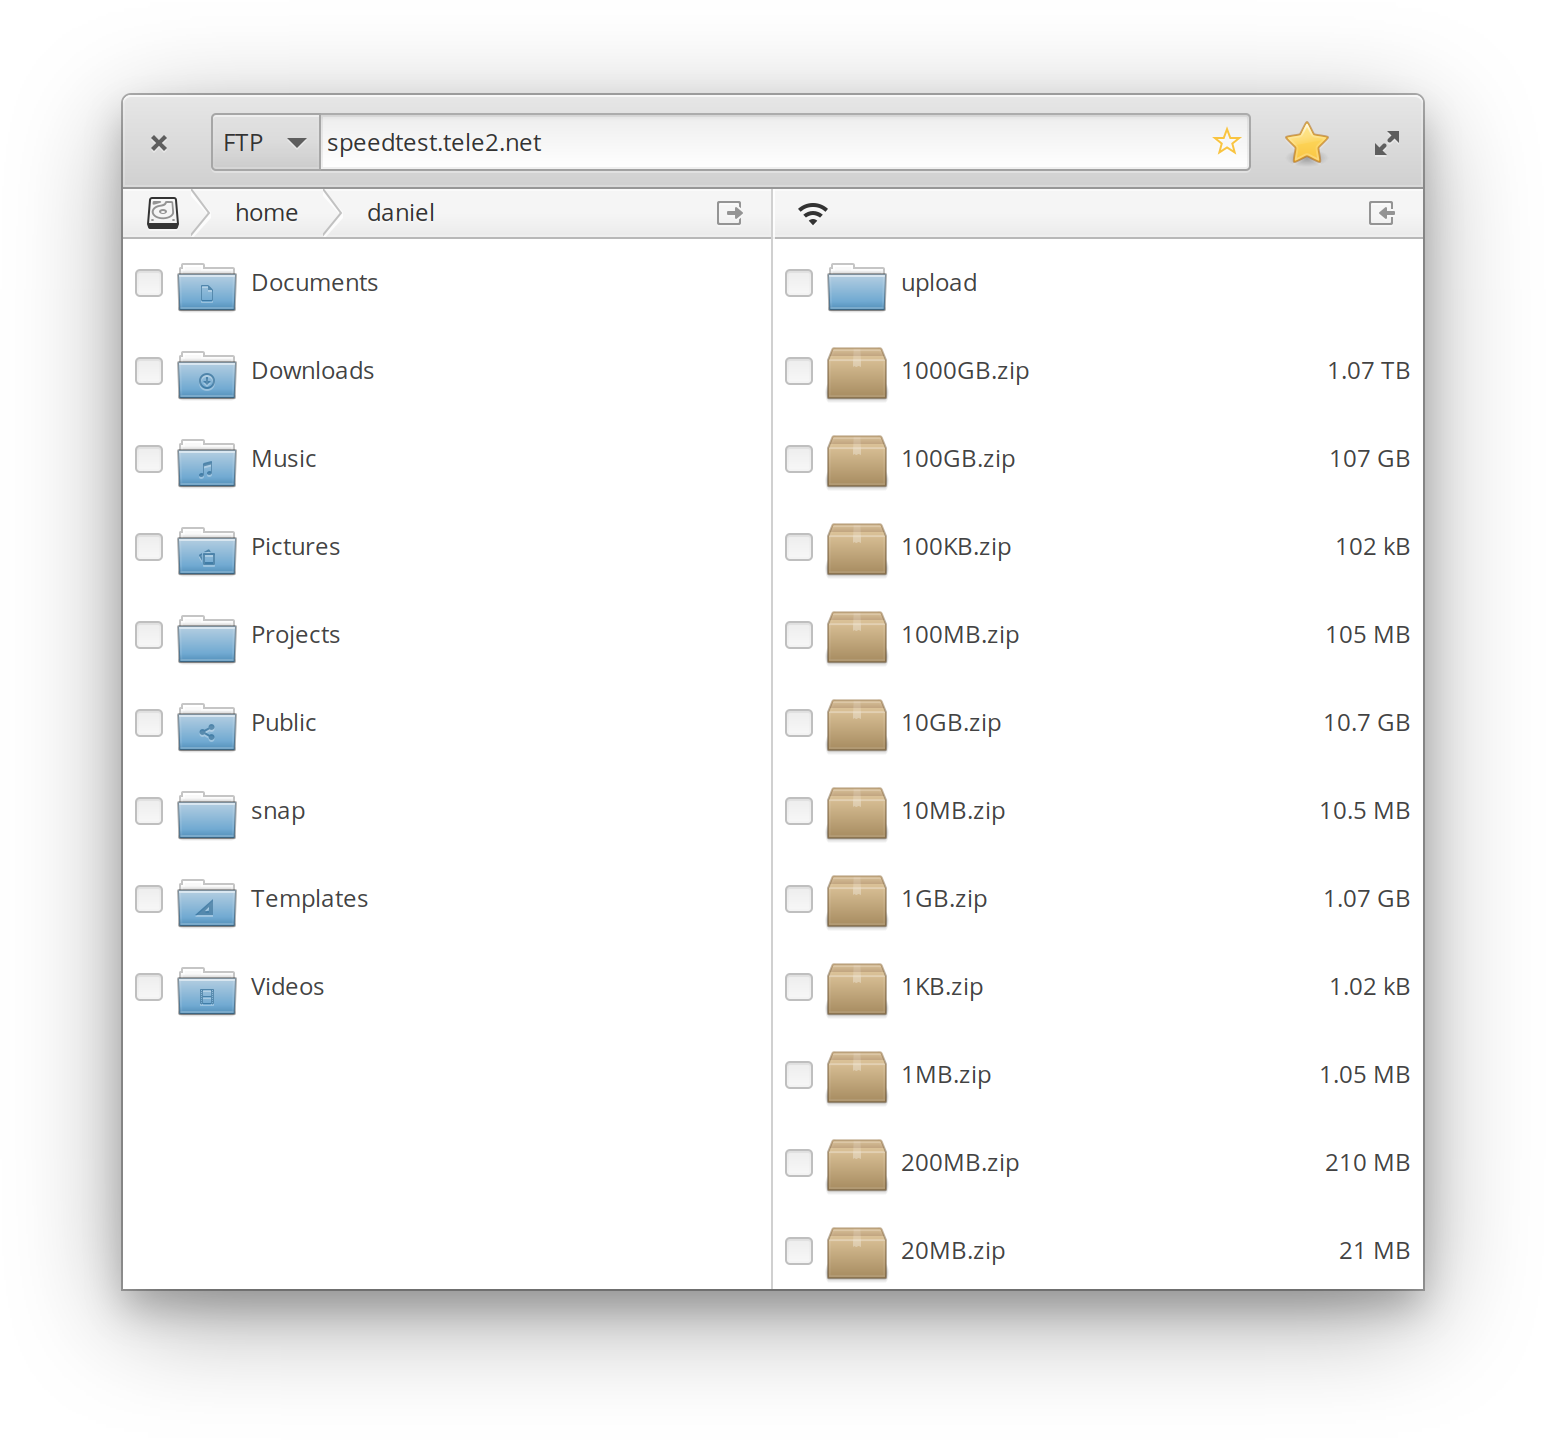
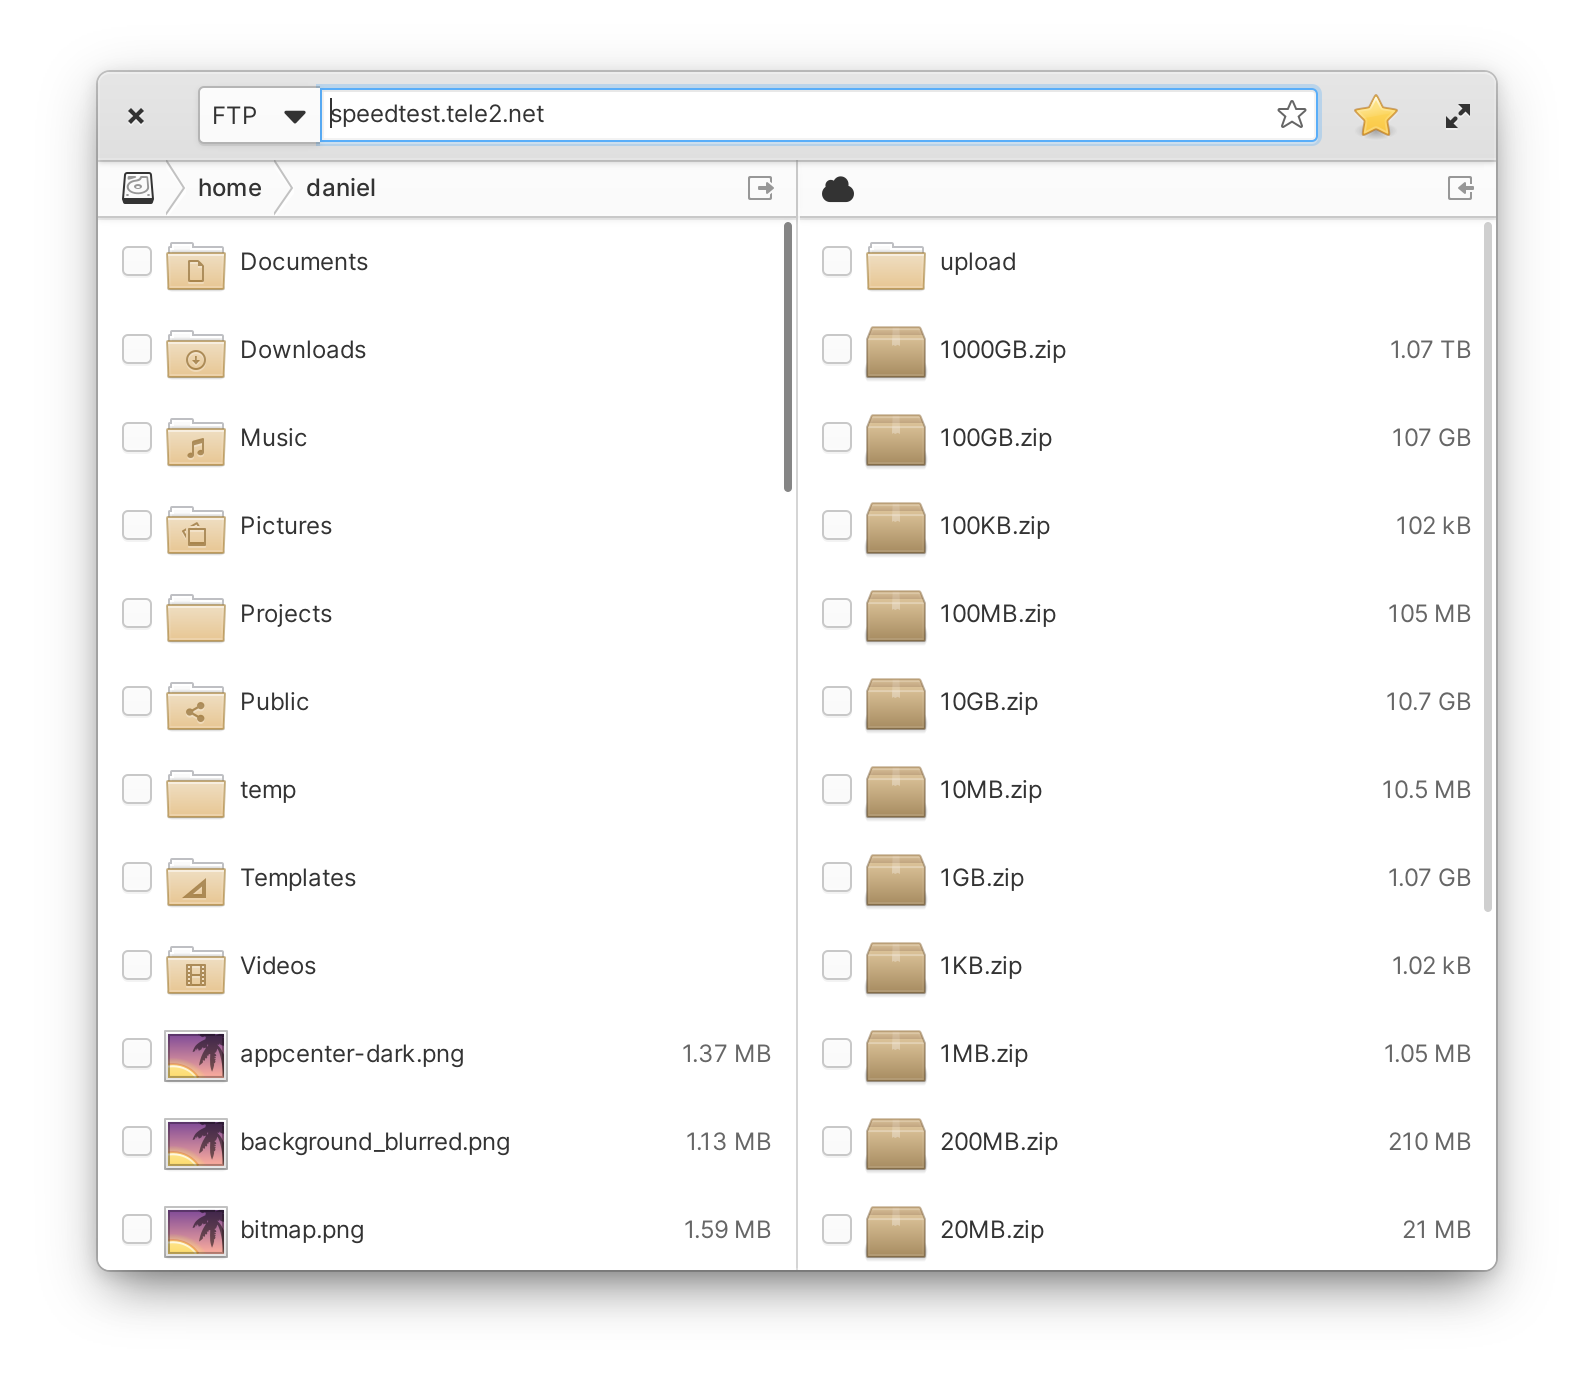
Style updates for Odin

Changed region(s): [[0.0621, 0.0617, 0.9625, 0.9254]]

diff --git a/data/Application.css b/data/Application.css
@@ -2,9 +2,10 @@
     background: none;
     border-radius: 0;
     border-width: 0;
+    padding: 6px;
 }
 
-.button {
+button.pathbar {
     border-width: 0;
     border-bottom-width: 1px;
     border-radius: 0;
